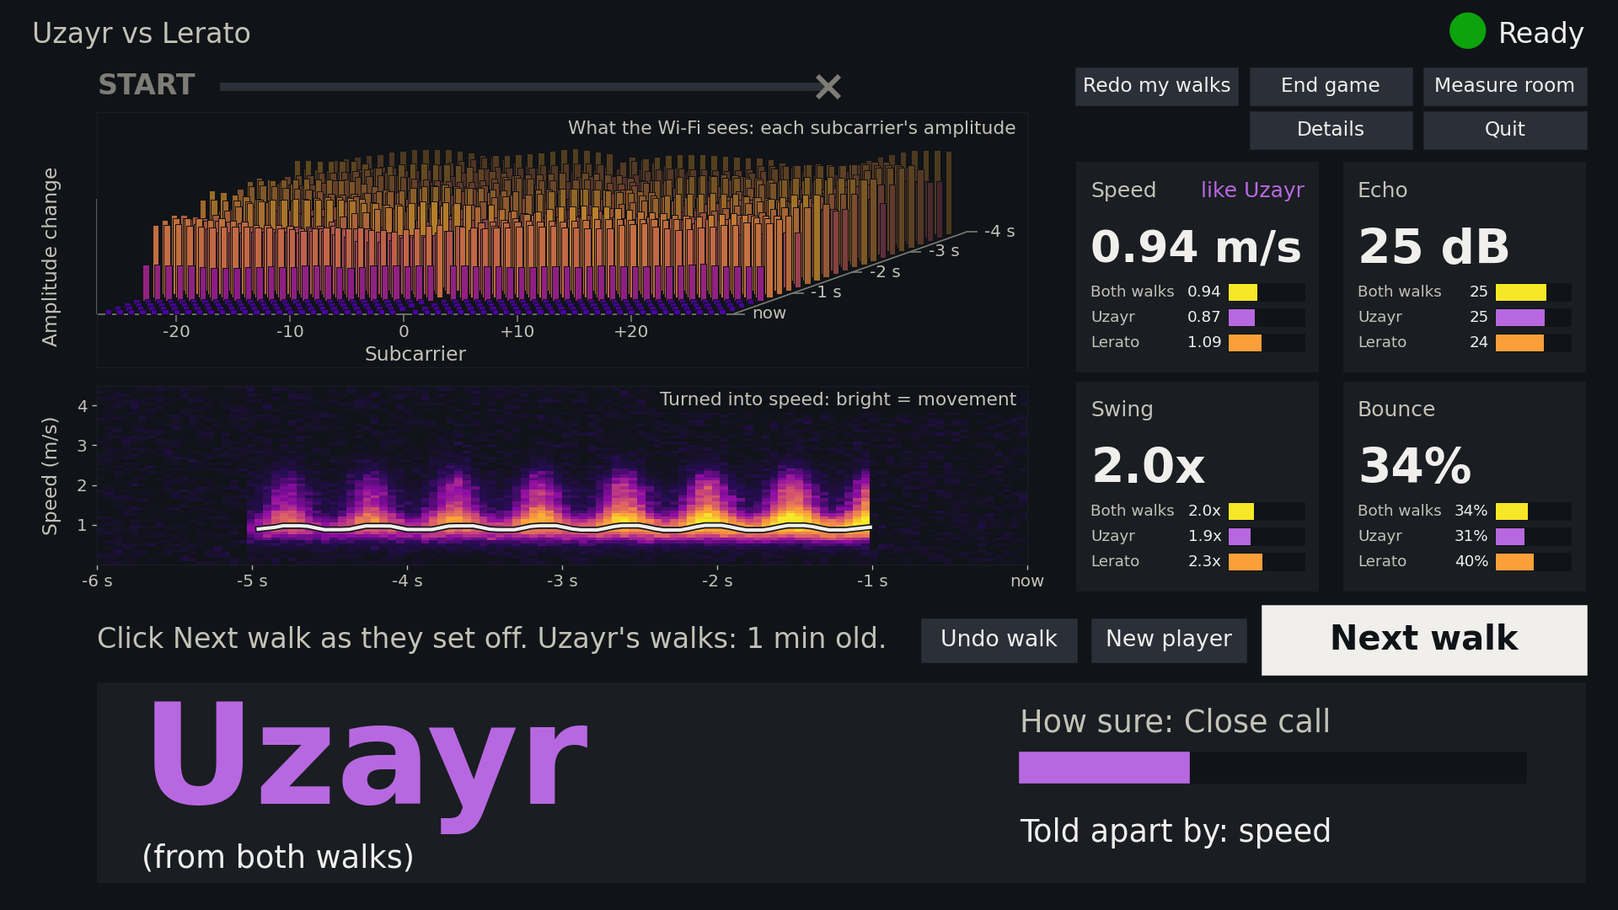
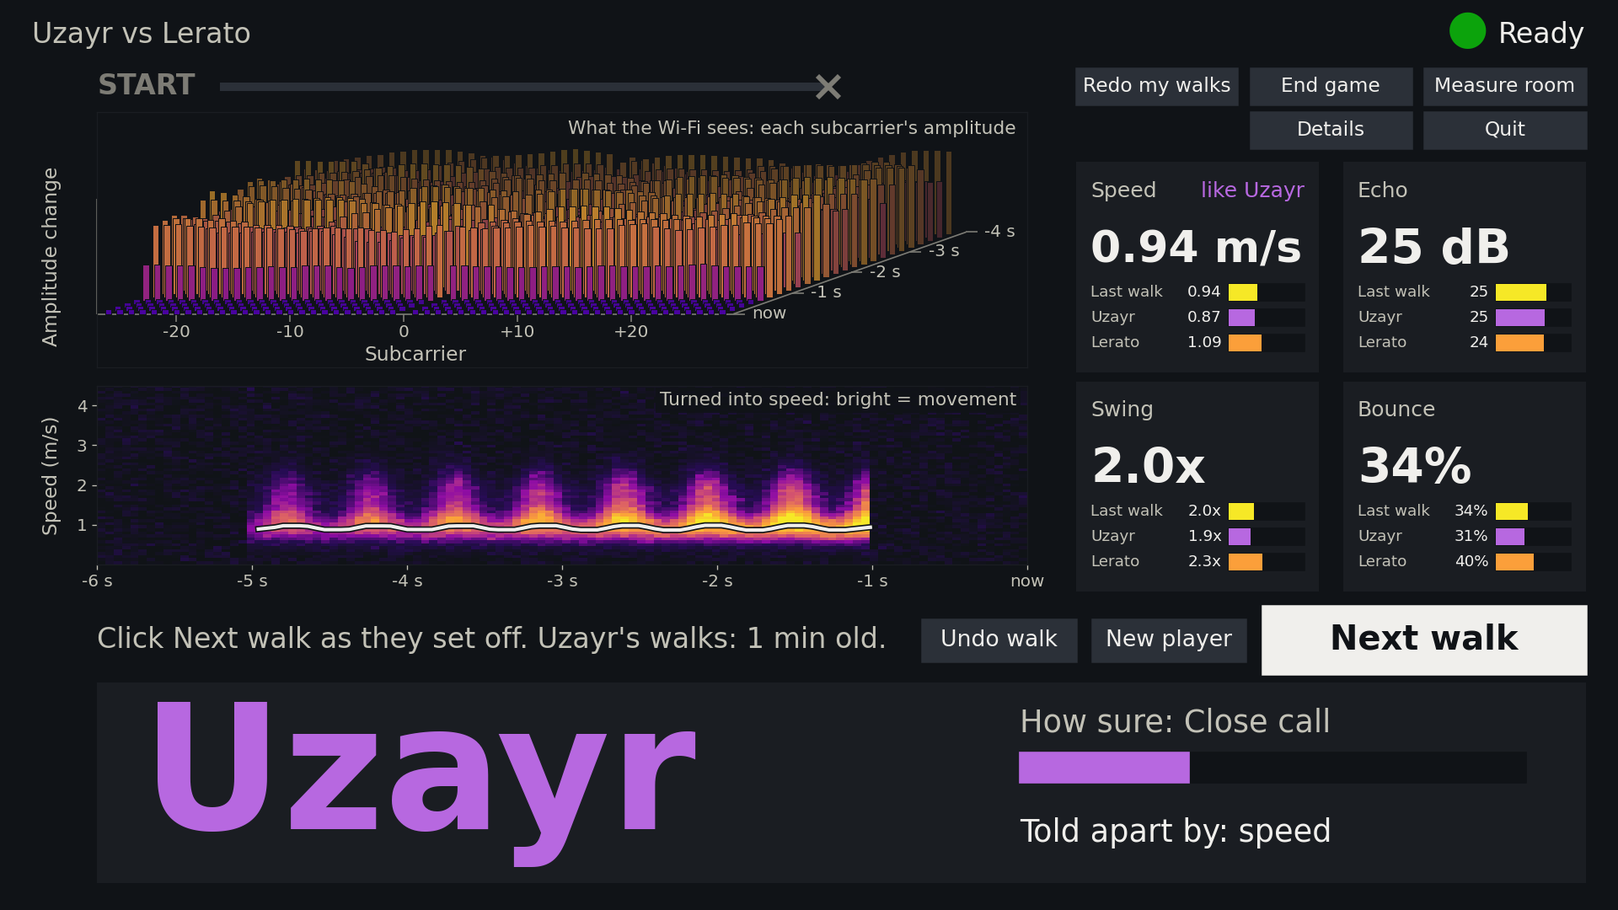
"Walk once more!" is off: one walk per answer
A close call now names the nearer person at once, with "How sure: Close call".
The switch is classifier.second_look (false); its code and tests stay, the tests
turning it on for themselves. README and screenshots follow.

diff --git a/tests/test_app.py b/tests/test_app.py
@@ -1099,7 +1099,7 @@ def test_shipped_round_is_two_each_visitor_first(cfg):
     assert (cfg["pools"]["n_enrol"], cfg["pools"]["enrol_order"]) == (2, "visitor_first")
     assert cfg["pools"]["n_enrol_uzayr"] == 5 <= cfg["pools"]["n_uzayr"]   # his own walks: kept, so more of them
     assert cfg["pools"]["uzayr_reuse_min"] == 10                   # (15 Nov: his walks drift within a run)
-    assert cfg["classifier"]["second_look"] is True
+    assert cfg["classifier"]["second_look"] is False               # (18 Nov: one walk per answer)
 
 
 @pytest.mark.shipped
@@ -2158,7 +2158,7 @@ def _to_close_call(app, t=100.0):
     return t + 20.0, asked
 
 
-@pytest.mark.shipped
+@pytest.mark.second_look
 def test_a_close_call_walks_once_more_and_answers_from_both_walks(cfg, tmp_path):
     """A game walk below tau names nobody: "Walk once more!" ("Too close to call: the same walker again."), Start
     walk is the next step (Undo walk can throw it away; no It was ..., no Redo my walks). The second walk's answer is
@@ -2230,7 +2230,7 @@ def test_a_close_call_walks_once_more_and_answers_from_both_walks(cfg, tmp_path)
     assert gone[-2:] == [second["id"], first["id"]]
 
 
-@pytest.mark.shipped
+@pytest.mark.second_look
 def test_second_look_at_most_once_per_game_walk(cfg, tmp_path):
     """Still a close call on both walks: the answer names the nearer person anyway (no third walk); the next game
     walk can ask again."""
@@ -2247,7 +2247,7 @@ def test_second_look_at_most_once_per_game_walk(cfg, tmp_path):
     assert app.state == AGAIN and "second_of" not in app.last
 
 
-@pytest.mark.shipped
+@pytest.mark.second_look
 def test_second_look_cancel_returns_to_walk_once_more_and_undo_drops_the_close_call(cfg, tmp_path):
     """Cancel walk (or the clicker's back key, or a lost signal) during the second walk: back to "walk once more";
     Undo walk there throws the close call away: back to the game, nothing named."""
@@ -2276,7 +2276,7 @@ def test_second_look_cancel_returns_to_walk_once_more_and_undo_drops_the_close_c
     assert "second_of" not in app.last and not app.last.get("both")
 
 
-@pytest.mark.shipped
+@pytest.mark.second_look
 def test_a_missed_second_look_leaves_the_first_walks_answer(cfg, tmp_path):
     """The second walk not seen: the first walk alone decides (its own answer, its own How sure), and in a
     recording It was ... labels that first walk."""
@@ -2300,7 +2300,7 @@ def test_a_missed_second_look_leaves_the_first_walks_answer(cfg, tmp_path):
     assert app.view(time.monotonic())["card"]["sub"] == "Last walk removed."
 
 
-@pytest.mark.shipped
+@pytest.mark.second_look
 def test_walk_once_more_and_the_other_buttons(cfg, tmp_path):
     """On "walk once more": Redo my walks is refused and the clicker's back key keeps it (above)."""
     app = _app(cfg, tmp_path)
@@ -2349,7 +2349,7 @@ BACK = ["measure room", "measure room fails", "measure room, receiver silent", "
         "Quit box: Keep going"]
 
 
-@pytest.mark.shipped
+@pytest.mark.second_look
 @pytest.mark.parametrize("how", BACK)
 def test_every_way_off_walk_once_more_comes_back_to_it(cfg, tmp_path, how):
     """The close call waits for its second walk on "Walk once more!" only, and every fallback comes back to that
@@ -2424,7 +2424,7 @@ def test_every_way_off_walk_once_more_comes_back_to_it(cfg, tmp_path, how):
 DROP = ["Undo walk", "End game", "new player", "Quit"]
 
 
-@pytest.mark.shipped
+@pytest.mark.second_look
 @pytest.mark.parametrize("how", DROP)
 def test_the_ways_that_drop_a_close_call(cfg, tmp_path, how):
     """Undo walk on "Walk once more!" throws the close call away ("Last walk removed.", back to the game); End game,
@@ -2460,7 +2460,7 @@ def test_the_ways_that_drop_a_close_call(cfg, tmp_path, how):
     assert "second_of" not in [e for e in _events(tmp_path) if e["kind"] == "walk"][-1]
 
 
-@pytest.mark.shipped
+@pytest.mark.second_look
 def test_a_second_look_starts_only_from_walk_once_more(cfg, tmp_path):
     """A close call left waiting where it should not be (a state the fallbacks never reach now): a game walk from
     there is a new walk, not its second look, and the close call goes (logged); "Walk once more!" without its close
@@ -2501,7 +2501,7 @@ def test_second_look_off_is_one_walk_per_answer(cfg, tmp_path):
         assert not {"second_look", "second_of", "alone"} & set(e), e
 
 
-@pytest.mark.shipped
+@pytest.mark.second_look
 def test_a_second_look_started_while_thinking_is_still_the_second_look(cfg, tmp_path):
     """(A replay has no after-walk lock:) Start walk during Thinking after a close call is its second walk."""
     app = _app(cfg, tmp_path)

diff --git a/tests/conftest.py b/tests/conftest.py
@@ -27,7 +27,11 @@ def cfg(request, cfg_shipped):
     configuration as shipped (the round of the day: Uzayr walks pools.n_enrol_uzayr with no player and
     n_enrol_uzayr_day with one, the visitor pools.n_enrol); one marked
     `alternate_round` gets the older alternating round: three learning walks each, Uzayr first, his walks wiped with
-    each player (no Redo my walks). The second look (classifier.second_look) is as shipped in all three."""
+    each player (no Redo my walks). The second look (classifier.second_look) is as shipped (off) in all three; a test
+    marked `second_look` gets the configuration as shipped with it on."""
+    if request.node.get_closest_marker("second_look"):
+        cfg_shipped["classifier"]["second_look"] = True
+        return cfg_shipped
     if request.node.get_closest_marker("shipped"):
         return cfg_shipped
     if request.node.get_closest_marker("alternate_round"):
@@ -61,13 +65,14 @@ def _logs_in_tmp(_test_logs, monkeypatch):
 @pytest.hookimpl(tryfirst=True)
 def pytest_configure(config):
     """Temporary files stay inside OpenDay/ whatever directory pytest is run from (nothing is written outside it).
-    Two markers for tests that need what only the owner's laptop has, and two that choose the configuration a
+    Two markers for tests that need what only the owner's laptop has, and three that choose the configuration a
     test's `cfg` is."""
     config.option.basetemp = os.path.join(openday.OPENDAY, ".pytest_tmp")
     config.addinivalue_line("markers", "needs_code: needs the thesis code and recordings in ../Code and the "
                                        "participant code list configs/people.local.yaml")
     config.addinivalue_line("markers", "needs_model: needs the trained model in state/model")
     config.addinivalue_line("markers", "shipped: cfg is the configuration as shipped")
+    config.addinivalue_line("markers", "second_look: cfg is the configuration as shipped, the second look on")
     config.addinivalue_line("markers", "alternate_round: cfg is the shipped configuration with the older "
                                        "alternating round (pools.enrol_order alternate)")
 

diff --git a/tests/test_screen.py b/tests/test_screen.py
@@ -497,7 +497,7 @@ def _tour_second_look(cfg, tmp_path, record):
     return out
 
 
-@pytest.mark.shipped
+@pytest.mark.second_look
 @pytest.mark.parametrize("record", [False, True])
 @pytest.mark.parametrize("size", [(14.70, 9.24), (16, 9), (14.7, 9.56)])    # the MacBook full screen first
 def test_the_second_look_and_his_five_walks_fit_on_screen(cfg, tmp_path, record, size):
@@ -930,7 +930,7 @@ COMMON = ["04_welcome", "05_name_box", "06_learning_lerato_turn", "07_walking_le
           "23_no_signal", "24_recording_learning", "25_recording_answer", "26_recording_noted", "27_recording_speed",
           "28_reuse_learning", "29_notice_reuse_got_it", "30_walks_expire_soon", "31_redo_my_walks",
           "32_notice_now_uzayr_walks", "33_notice_redo_undone", "34_notice_redo_back_to_game",
-          "35_notice_redo_next_player", "36_walk_once_more", "37_answer_both_walks", "flow", "lights"]
+          "35_notice_redo_next_player", "flow", "lights"]     # (36, 37: only with classifier.second_look)
 FIRST = ["01_setup", "02_measuring_countdown", "03_measuring"]
 
 

diff --git a/tests/test_lane.py b/tests/test_lane.py
@@ -199,7 +199,7 @@ def test_a_missed_walk_a_cancel_and_a_lost_signal_never_reach_the_x(cfg, tmp_pat
     assert app.walk is None and _lv(app)["frac"] is None
 
 
-@pytest.mark.shipped
+@pytest.mark.second_look
 def test_the_second_look_and_a_free_walk_each_get_their_own_lane(cfg, tmp_path):
     """A close call: "walk once more", and the second walk starts from START and ends on the X; a free walk (no
     player) too, in the last walk's yellow; a learning walk of Uzayr's in his colour."""

diff --git a/README.md b/README.md
@@ -56,8 +56,7 @@ commands](#other-commands-run-from-this-folder)).
 
 **What the walker hears (say it aloud):** "Stand on START. When I say go, walk to the X and stand still on it
 until the answer appears. Then walk back." And for the round: "You walk twice so it learns your walk, then I walk
-twice if it needs me, then we play: it guesses which of us is walking. If it's too close to call, the same
-person walks once more."
+twice if it needs me, then we play: it guesses which of us is walking."
 
 ## 2. Start the app (one command)
 
@@ -86,8 +85,7 @@ To stop the app, click **Quit** (top right), then **Yes, quit**.
 | 6 | <img src="reports/screens/07_walking_learning.png" width="320"> | nothing (or **They've stopped**) | The walker goes to the X and stands still. The lane above the pictures shows them on their way, from START to the X, and says "On the X" when the walk ends ([The screen](#the-screen)). The walk ends by itself under two seconds after they stop. You can click **They've stopped** once they stand on the X. Do so for every walker when people move nearby ([Your routine at the stand](#your-routine-at-the-stand)); otherwise you don't need to. A click that comes after the walk has already ended does nothing: the big button stays grey for 3 s after every walk. |
 | 7 | <img src="reports/screens/14_game.png" width="320"> | **Start walk** | After the last learning walk: "Got you both! Now the guessing game." (or "Got it! Now the guessing game." when your walks were kept). You **or** the visitor walks; the crowd can choose. |
 | 8 | <img src="reports/screens/17_answer_lerato.png" width="320"> | **Next walk** | Under two seconds after they stop: who it was, how sure ("Fairly sure" or "Leaning"), and what told you apart ("Told apart by: speed and leg swing"). The tiles say which person each reading was "like". Nothing to click but **Next walk**: the visitors can see for themselves whether the guess was right. There is no score on screen. |
-| 9 | <img src="reports/screens/36_walk_once_more.png" width="320"> | **Start walk** | A close call names nobody yet: "Walk once more!" ("Too close to call: the same walker again."). The **same** person walks again from the back mark (in the home tests about 1 game walk in 10, and 1 in 5 in a disturbed room). |
-| 10 | <img src="reports/screens/37_answer_both_walks.png" width="320"> | **Next walk** | The answer from both walks together, marked "(from both walks)"; the tiles show what it was decided on, both walks' readings averaged (the row "Both walks"). It never asks a third time: if it is still close, it names the nearer person with "How sure: Close call" ([picture](reports/screens/19_close_call.png)). If the second walk is missed, the first walk's answer shows. |
+| 9 | <img src="reports/screens/19_close_call.png" width="320"> | **Next walk** | A close call: the answer still names the nearer person, and says "How sure: Close call". |
 
 When the visitor is done, **New player** starts the next one: the name box, then their two walks (and your two, if
 yours are 10 minutes old or more). The last visitor's name and walks are wiped. **End game** (top right) wipes them without
@@ -123,10 +121,6 @@ goes near the boards. Then they walk back to the start.
 - The game walks never change what it learned: it always compares with those learning walks (the visitor's 2,
   your 5 or 2). Why 5 in the morning: your walks are kept, so the extra three cost time only once, and more of them
   make your side steadier; during the day 2 keep the queue moving.
-- **Too close to call.** The card waits for the second walk: **Measure room** (even if it fails), a lost signal,
-  **New player** then **Cancel**, and **Keep going** in the Quit or End game box all come back to it; **Undo walk**
-  drops it (back to the game, nobody named), and so do **End game**, a new player and **Quit**. To switch "Walk
-  once more!" off: `second_look: false` in `configs/openday.yaml` (`classifier:`).
 
 **How long a round takes** (about 20 s per walk, there and back): the name and the visitor's two walks about
 1 minute, your two walks another 40 s when they are due (once every 10 minutes), then the game (about 20 s a
@@ -174,9 +168,7 @@ These replace the bottom line of the card for a few seconds. The big text and th
 | [Got it! Ready for the next player.](reports/screens/35_notice_redo_next_player.png) (green) | After **Redo my walks** with no player. | **New player** when the next visitor is ready. |
 | [Back to the game.](reports/screens/33_notice_redo_undone.png) (green) | **Undo walk** right after **Redo my walks**: your old walks are kept. | Carry on with the game. |
 | [Missed that one. Same turn again: start from the back mark.](reports/screens/10_notice_missed.png) (amber) | The app didn't see a walk: under 1.5 s of movement. It gives up 5 s after the click if almost nothing moved. | Walk again from the back mark, and click as they set off. |
-| [Walk cancelled.](reports/screens/12_notice_walk_cancelled.png) (amber) | You clicked **Cancel walk**. | Walk again (in learning, the same turn). During a second look it says "Walk cancelled. Same walker again." and goes back to "walk once more". |
-| Missed that one. The answer is from the first walk. (amber) | The second walk after "Walk once more!" wasn't seen. | Nothing: the first walk's answer shows. **Next walk**. |
-| Both walks removed. (amber) | **Undo walk** on an answer "(from both walks)". | Walk again. |
+| [Walk cancelled.](reports/screens/12_notice_walk_cancelled.png) (amber) | You clicked **Cancel walk**. | Walk again (in learning, the same turn). |
 | [Last walk removed.](reports/screens/11_notice_last_walk_removed.png) (amber) | You clicked **Undo walk**. | In learning, the same turn again. |
 | [Lost the signal. Walk again when the light is green.](reports/screens/20_notice_lost_signal.png) (red) | The receiver stopped or restarted during a walk. | See section 6 if it happens again. |
 
@@ -200,12 +192,12 @@ the top right, over the tiles: **Redo my walks** · **End game** · **Measure ro
 
 | Small button | What it does |
 |---|---|
-| **Undo walk** | Throws away the last walk. In learning (yours too), that turn is walked again. During a walk it reads **Cancel walk**. Right after **Redo my walks**, before you walk: keeps your old walks. On "Walk once more!": throws that walk away (back to the game, nobody named). On an answer "(from both walks)": throws both walks away. |
+| **Undo walk** | Throws away the last walk. In learning (yours too), that turn is walked again. During a walk it reads **Cancel walk**. Right after **Redo my walks**, before you walk: keeps your old walks. |
 | **New player** | The name box, then the visitor's two walks, then your two if yours are due (10 minutes old or more). |
 | **Use last measurement** | Set-up only (where Undo walk and New player sit later): takes today's room level, measured cleanly earlier today (also before a restart). Click it after every restart. |
-| **Redo my walks** | Between walks (no player, in a game, or on an answer): your learning walks again now, without a new player ("Uzayr's turn"): two with a player (the card says "Uzayr walks twice, then the game carries on."), five with no player (your morning set). Then the game carries on, and the next players use these walks. With no player it is the way to walk ahead. Dim while someone is learning or walking, on "Walk once more!", and with "No signal". By mistake? **Undo walk** before you walk keeps the old ones. |
+| **Redo my walks** | Between walks (no player, in a game, or on an answer): your learning walks again now, without a new player ("Uzayr's turn"): two with a player (the card says "Uzayr walks twice, then the game carries on."), five with no player (your morning set). Then the game carries on, and the next players use these walks. With no player it is the way to walk ahead. Dim while someone is learning or walking, and with "No signal". By mistake? **Undo walk** before you walk keeps the old ones. |
 | **End game** | Asks first, then wipes the player and goes back to "Who's walking?". Your walks are kept. |
-| **Measure room** | Measures the room again: 5 s to step back, then 30 s still. Only a clearly quieter room (a tenth or more) replaces today's level ("Quieter than earlier"): then your kept walks expire (the next round asks for them again), and if you clicked it part-way through your learning walks, you walk your whole set again straight after. Otherwise your line says "kept the earlier room level" (green) and nothing changes. On "Walk once more!" it comes back to that card afterwards (even if measuring fails): the second walk is still to come. |
+| **Measure room** | Measures the room again: 5 s to step back, then 30 s still. Only a clearly quieter room (a tenth or more) replaces today's level ("Quieter than earlier"): then your kept walks expire (the next round asks for them again), and if you clicked it part-way through your learning walks, you walk your whole set again straight after. Otherwise your line says "kept the earlier room level" (green) and nothing changes. |
 | **Details** | Shows the packet rate, the room level and how old your walks are on the bottom line. |
 | **Quit** | Asks first ("Yes, quit"), then the player is wiped and the app closes. |
 
@@ -258,7 +250,6 @@ Start walk.
 | The answer came while they were still walking | The walk ended early. Click **Undo walk** and walk again. |
 | The wrong person walked a learning turn | Click **Undo walk**: that turn is walked again, by the right person. |
 | You think your walks went wrong, or the room changed a lot | Click **Redo my walks** between walks: your walks again (two in a game). |
-| "Walk once more!" but the other person walks next by mistake | Click **Undo walk** on the answer: both walks go. Then walk again. |
 | You clicked **Redo my walks** by mistake | Click **Undo walk** before you walk: your old walks come back and the game carries on. |
 | A name was typed wrong | **Cancel** in the name box, or **New player** again later (the turns start again). |
 | The app is frozen | Click in the VS Code terminal and press Ctrl+C (or Cmd+Option+Esc, Python, Force Quit). Start it again (about 10 s), then **Use last measurement**. Then **New player** again: the visitor walks twice and you twice again (your kept walks go with a restart). |
@@ -308,8 +299,6 @@ per walk is final: both buttons go dim, the one you clicked gets a tick
    you leave the back mark and stops it as you stand still on the X. Write the times down in order.
 5. Optional: a round with a friend. **New player**, the four learning walks (just **Start walk**: your friend
    twice, then you twice), a few game walks; after each answer click **It was ...** for who really walked.
-   On "Walk once more!" the same person walks once more; the **It was ...** click after the answer labels both
-   walks.
    Optional, but it lets the recording be scored. Then **New player** again (within 10 minutes): only your friend
    walks, twice, and the game starts. Once, in a game, click **Redo my walks** and walk your two turns. (The
    recording notes which of your walks each round reused, so it can still be scored.)
@@ -330,9 +319,8 @@ can be read directly.
 ## What it is
 
 Two ESP32 boards, no camera. A visitor walks towards the boards twice, then Uzayr twice (five in the morning; his
-walks are kept for 10 minutes, so usually only the visitor walks). A game walk that is too close to call is walked
-once more, and the answer comes from both walks. After that, the screen tells them apart from the radio echo alone.
-Every walk also gives a walking speed.
+walks are kept for 10 minutes, so usually only the visitor walks). After that, the screen tells them apart from the
+radio echo alone. Every walk also gives a walking speed.
 
 The decision model (`state/model/`, retrained 15 Nov on the radio packets as they come) never saw Uzayr or any
 visitor: it
@@ -391,16 +379,14 @@ value), and its speed was within 0.06 m/s of distance ÷ time on average.
 - **Right:** Speed, Echo (how strongly the walk stirred the signal: its loudest moment over the empty room, in dB;
   only a picture, no answer uses it), Swing (leg swing) and Bounce. Speed updates live during a walk. Afterwards each
   tile shows the last walk (while learning, in the colour of whose turn it was) against Uzayr's average and the
-  visitor's, and which one it was "like". On an answer from both walks the tiles show both walks' readings averaged
-  (the row "Both walks").
+  visitor's, and which one it was "like".
 - **Buttons:** your instructions on the left, then the small buttons, then the big one (section 4).
 - **Bottom card, for the crowd:** what to do ("Lerato's turn", "Walk to the X", with a small line under it), then
   the answer in the person's colour, "How sure" and what told the two apart. While learning, dots in two rows, the
   visitor's on top, then yours (filled = done, outlined = now, faint = still to come; yours already filled when your
   walks are kept). "How sure" is a word, not a number: "Fairly sure" for a clear answer (its margin at least 4
-  times the model's close-call line, 0.046), else "Leaning". A close call (its margin below the line) names nobody
-  yet: "Walk once more!", and the answer then comes from both walks, marked "(from both walks)". Still close after
-  both walks, it names the nearer person with "Close call". There is no score on screen.
+  times the model's close-call line, 0.046), else "Leaning". A close call (its margin below the line) still names
+  the nearer person, with "Close call". There is no score on screen.
 - **Red RECORDING box** (top line, middle): raw radio data is being saved. Home tests and bench sessions only,
   never on Open Day.
 - **Long names** are shortened where room is short, never drawn over anything: the card, the dots, the tiles
@@ -441,15 +427,14 @@ PYTHONDONTWRITEBYTECODE=1 /opt/anaconda3/bin/python3 -m pytest -p no:cacheprovid
   recording; this is what `run_solo_test.command` uses).
 - **A recording** (`--record`) saves, for each run, the raw radio data (`bench_RX.bin`) and the app's events
   (`events.jsonl`): every walk and click, who walked (a learning walk by its turn, a game walk by an **It was ...**
-  click; a game walk with no click is left out of the scoring), which of your walks each round reused or redid,
-  and which walk was the second look of which close call. **Measure room** is always needed in a recording (an
+  click; a game walk with no click is left out of the scoring), and which of your walks each round reused or
+  redid. **Measure room** is always needed in a recording (an
   old measurement is never reused, and a recording's never becomes today's room level).
 - **`eval --bench`** scores a two-person session recorded as `bench-checklist` describes, into
   `reports/bench_<folder>.md` (laptop only). The first line is PASS or FAIL: the simple rule (m0) with the 5 + 5
   alternating learning walks, 18 of the 20 test walks needed. Then the shipped model with those 5 + 5, with 2 + 5
   (the visitor's 2, your morning 5) and with 2 + 2 (your set with a player), the pool from
-  before the break, whether the two walkers' speeds overlap, and the second looks (a close call walked once more is
-  scored on both walks averaged, as the round showed it).
+  before the break, and whether the two walkers' speeds overlap.
 - **`bench-check`** takes one run folder or a folder of runs, re-runs every recorded walk through the live chain
   and prints how each ended (live and offline), the false walks in the quiet spans between walks, the room level
   over the run, and which rounds reused or redid your walks; `--max-s S` tries another walk limit. It prints only
@@ -475,7 +460,9 @@ in every round, and there is no Redo my walks). Why 10: a precaution: the two-pe
 about 10 minutes old. The age is checked at **New player**, so a game can run on walks up to about 13-15 minutes old.
 If you change it, change "10 minutes" in this guide too and run `screens`.
 
-**The second look** is `second_look` under `classifier:` (true; false = one walk per answer).
+**The second look** (`second_look` under `classifier:`) is off: one walk per answer. With `true`, a close call
+names nobody yet: the card says "Walk once more!", the same person walks again, and the answer comes from both
+walks.
 
 ## Files
 
